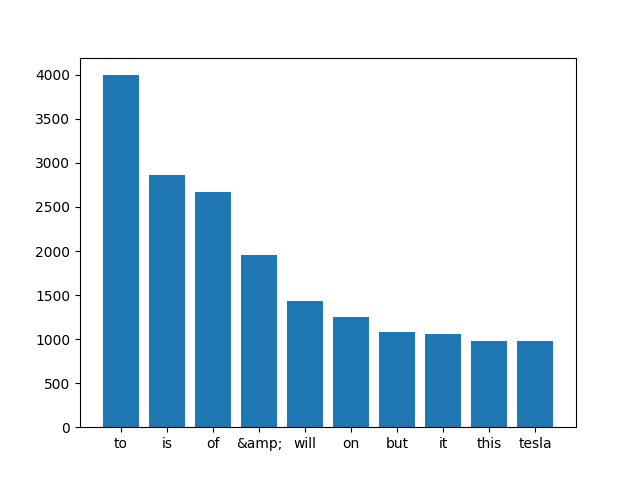
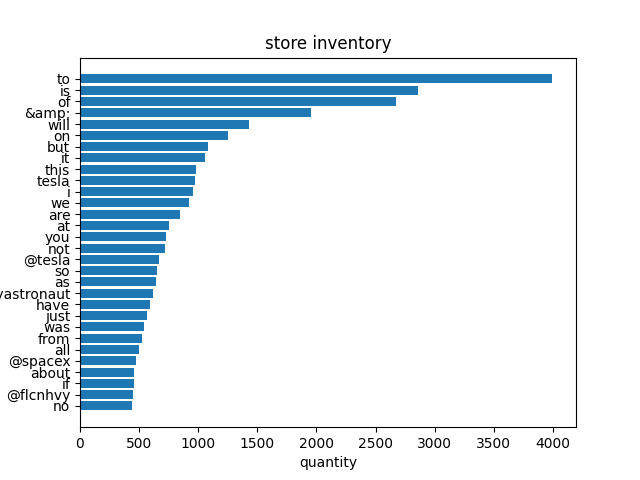
Flipped Bar Chart, Added tkinter

Changed region(s): [[0.0, 0.125, 0.9062, 1.0], [0.4062, 0.0625, 0.625, 0.125]]

diff --git a/test.py b/test.py
@@ -2,21 +2,93 @@ from collections import Counter
 import csv
 from operator import itemgetter
 import matplotlib.pyplot as plt
-ignoreWords = ["the", "that", "an", "a", "for", "in", "be", "by", "or", "and", "with"]
-freq = None
-counter = {}
-with open ("TweetsElonMusk.csv", encoding="utf-8") as csvfile:
-    reader = csv.reader(csvfile, delimiter=',')
-    for col in reader:
-        for tweet in col:
-            words = [x.lower() for x in tweet.split()] 
-            for word in [s for s in words if not (s in ignoreWords)]:
-                if word not in counter:
-                    counter[word] = 0
-                counter[word]+=1
-res = dict(sorted(counter.items(), key = itemgetter(1), reverse = True)[:10])
-print("The top 10 values pairs are " + str(res))
-names = list(res.keys())
-values = list(res.values())
-plt.bar(range(len(res)), values, tick_label=names)
-plt.savefig('fig.png')
+import tkinter as tk
+import plotly.graph_objects as go
+import pandas as pd
+from PIL import ImageTk, Image
+
+def btn10():
+    global selectedVal
+    selectedVal = 10
+    clearButtons()
+    btn10.configure(bg='gray')
+    saveGraph()
+def btn30():
+    global selectedVal
+    selectedVal = 30
+    clearButtons()
+    btn30.configure(bg='gray')
+    saveGraph()
+def btn50():
+    global selectedVal
+    selectedVal = 50
+    clearButtons()
+    btn50.configure(bg='gray')
+    saveGraph()
+def clearButtons():
+    btn10.configure(bg='#f0f0f0')
+    btn30.configure(bg='#f0f0f0')
+    btn50.configure(bg='#f0f0f0')
+def saveGraph():
+    global selectedVal
+    ignoreWords = ["the", "that", "an", "a", "for", "in", "be", "by", "or", "and", "with"]
+    freq = None
+    counter = {}
+    with open ("TweetsElonMusk.csv", encoding="utf-8") as csvfile:
+        reader = csv.reader(csvfile, delimiter=',')
+        for col in reader:
+            for tweet in col:
+                words = [x.lower() for x in tweet.split()] 
+                for word in [s for s in words if not (s in ignoreWords)]:
+                    if word not in counter:
+                        counter[word] = 0
+                    counter[word]+=1
+    
+    res = dict(sorted(counter.items(), key = itemgetter(1), reverse = True)[:selectedVal])
+    names = list(res.keys())
+    values = list(res.values())
+    
+    plt.barh(names, values)
+    plt.title('store inventory')
+    plt.ylabel('product')
+    plt.xlabel('quantity')
+    plt.gca().invert_yaxis()
+    plt.savefig("fig.png")
+    plt.clf()
+    
+    updateWindow()
+    
+def updateWindow():
+    print("HERE")
+    img = ImageTk.PhotoImage(Image.open("fig.png"))
+    print(img)
+    leftGraph.configure(image=img)
+
+
+
+
+window = tk.Tk()
+window.title("Tweets")
+window.geometry("1400x500")
+"""
+    Buttons
+"""
+btn10 = tk.Button(window,width=10,height=2,text="10",command=btn10, bg="gray")
+btn10.place(x=0, y=0)
+btn30 = tk.Button(window,width=10,height=2,text="30",command=btn30, bg="#f0f0f0")
+btn30.place(x=100, y=0)
+btn50 = tk.Button(window,width=10,height=2,text="50",command=btn50, bg="#f0f0f0")
+btn50.place(x=200, y=0)
+"""
+    Left Graph
+"""
+img = ImageTk.PhotoImage(Image.open("fig.png"))
+leftGraph = tk.Label(window, image=img)
+leftGraph.place(x=0, y=40)
+"""
+    Right Word Cloud
+"""
+rightCloud = tk.Label(window)
+rightCloud.place(x=700, y=40)
+
+window.mainloop()
